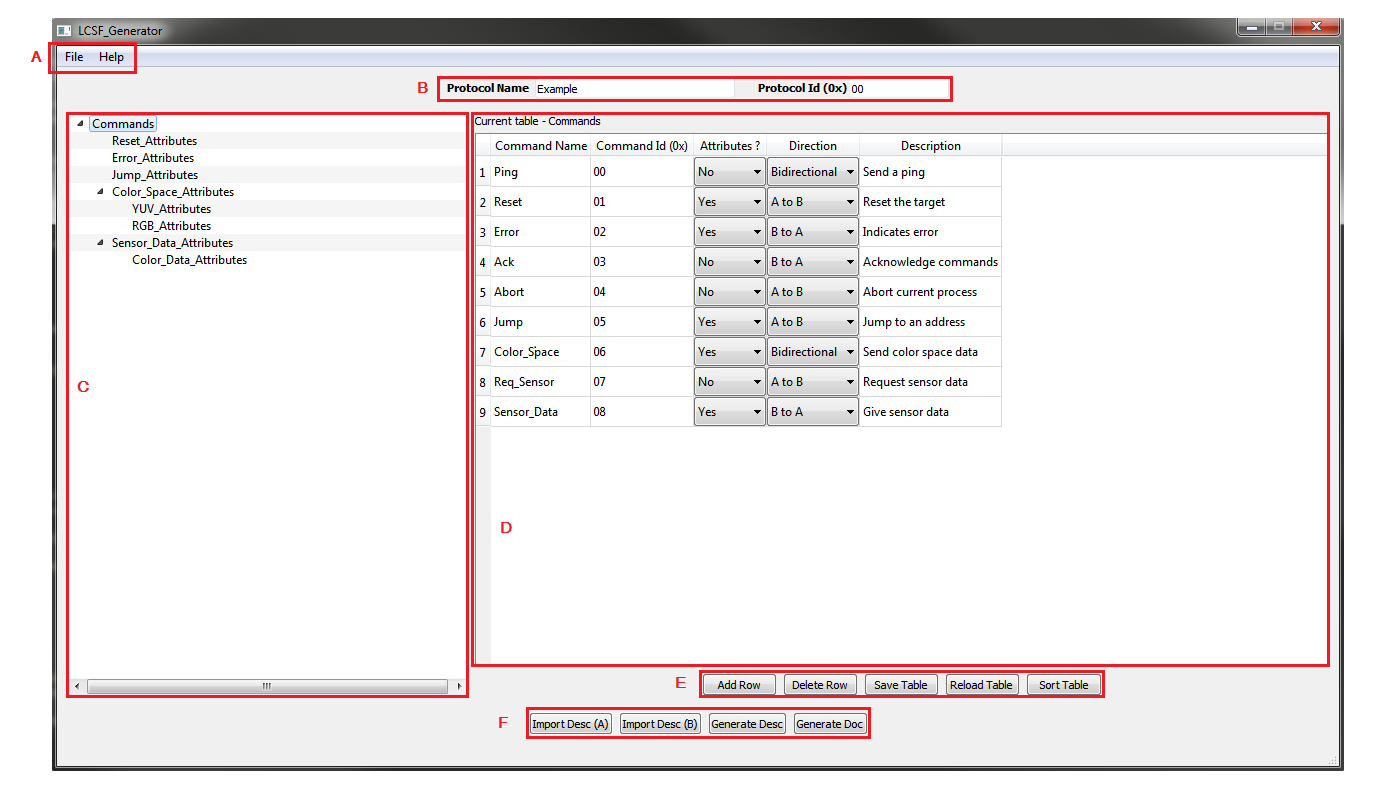
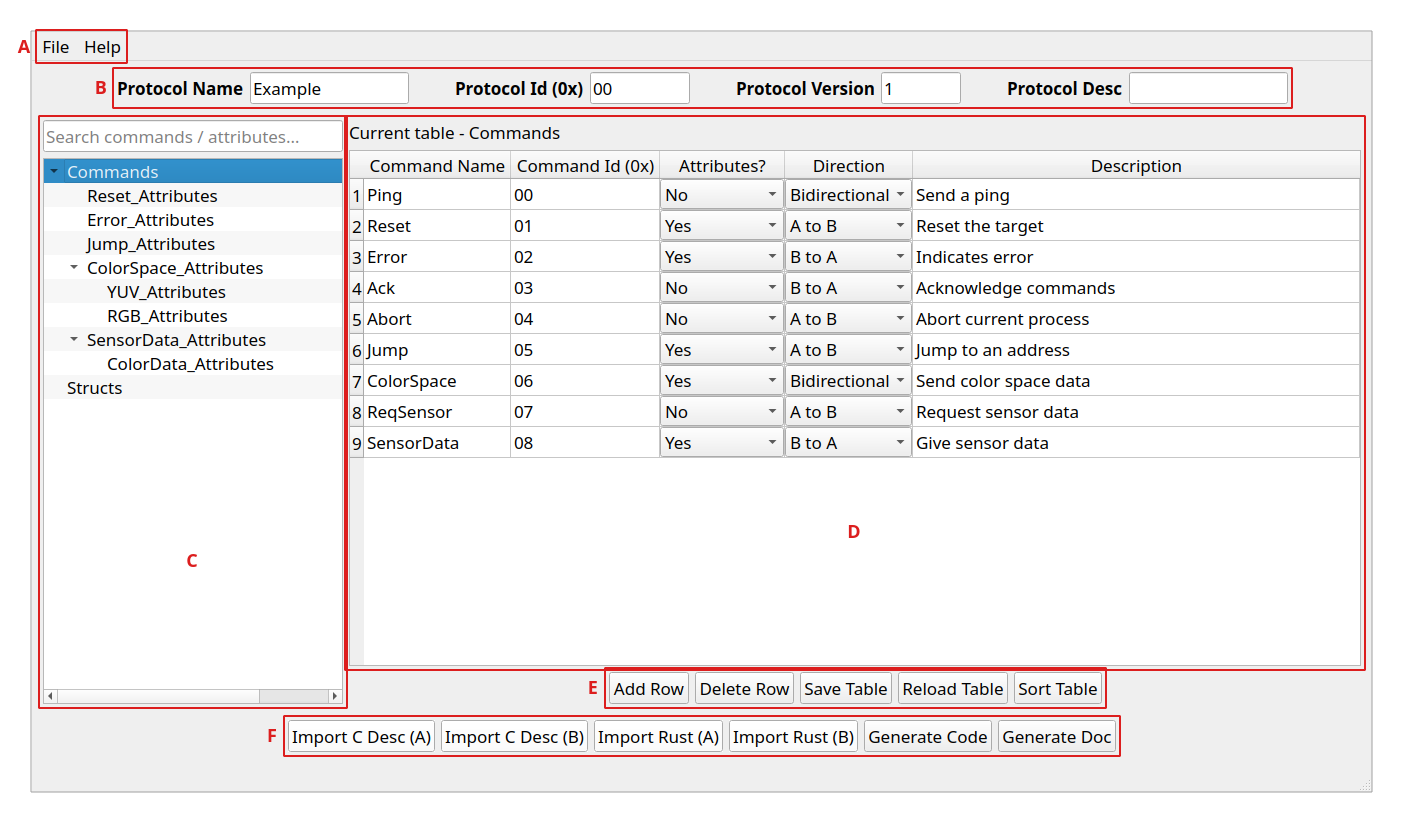
doc: update manual and screenshots to the current GUI

Changed region(s): [[0.0, 0.0, 0.9878, 1.0], [0.7717, 0.1832, 0.8643, 0.2137]]

diff --git a/index.md b/index.md
@@ -3,8 +3,8 @@
 LCSF Generator is a C++/Qt graphical tool that will allow you to:
 1. Create and edit protocols based on [LCSF](https://jean-roland.github.io/LCSF_Doc/) easily.
 2. Generate corresponding code for the [LCSF C Stack](https://github.com/jean-roland/LCSF_C_Stack) and [LCSF Stack Rust](https://github.com/jean-roland/LCSF_Stack_Rust).
-3. Import previous protocol source files to deploy modificatons without hassle (only C files supported).
-4. Generate protocole documentation on wiki and markdown format.
+3. Import previous protocol source files (C or Rust) to deploy modifications without hassle.
+4. Generate protocol documentation in wiki, DokuWiki and markdown format.
 
 ## Interface Breakdown
 
@@ -22,9 +22,11 @@ The file menu structure is:
 
 ![file menu](./img/menu_file.png)
 
-* New Protocol: Clear the interface to easily start a new protocol.
-* Load protocol: Open a file dialog to load a saved protocol.
-* Save protocol: Open a file dialog to save the current protocol (json format).
+* New protocol (Ctrl+N): Clear the interface to easily start a new protocol.
+* Load protocol (Ctrl+O): Open a file dialog to load a saved protocol.
+* Open Recent: Reload one of the last 8 protocols loaded or saved.
+* Save protocol (Ctrl+S): Open a file dialog to save the current protocol (json format).
+* Quit (Ctrl+Q): Leave the application, it asks whether to save the protocol first.
 
 #### Help Menu
 
@@ -40,6 +42,8 @@ The help menu structure is:
 This is where you fill the protocol parameters:
 * Protocol Name: The protocol name that will be used in files, code and documentation (Up to 64 alphanumerical characters and underscore allowed).
 * Protocol Id: The id that will be used in the LCSF stacks to identify the protocol (Up to 4 hexadecimal characters allowed).
+* Protocol Version: The protocol version number written in the generated code (0 to 65535).
+* Protocol Desc: The protocol description that will be used in documentation.
 
 ### C - Table Tree
 
@@ -48,21 +52,23 @@ This component will show hierarchically the different tables that make the proto
 Clicking on a table will display the table content on the table view (section D).
 It will also silently save any modifications on the previous table.
 
-The root table is always the Commands table and will contain the protocol commands.
-Each root table child will be a command containing attributes.
-Each command table child will be an attribute containing sub-attributes and so on and so forth.
+The search bar on top (Ctrl+F) filters the tree by name: a table stays visible when its name, a parent's or a child's name contains the search text.
+
+The tree has two root tables:
+* Commands: contains the protocol commands. Each of its children will be a command containing attributes, and each command table child will be an attribute containing sub-attributes and so on and so forth.
+* Structs: contains the protocol struct types. Each of its children (`<struct>_Fields`) contains the fields of a struct.
 
 ### D - Table View
 
 The table view will display the content of the currently selected table on the table tree (section C).
 The label on top indicates which table is currently displayed.
 
-If the root table Commands is selected, it will display the protocol command table, otherwise it will display an attribute table.
+The Commands table displays the protocol command table, the Structs table the struct table, a `<struct>_Fields` table a field table, and any other table an attribute table.
 
-Each table is composed of 5 columns, which depend on the table type. Each row represents an entry in the table.
-Each cell of the table can be modified directly, only the first two columns (name, id) are mandatory.
+Each row represents an entry in the table.
+Each cell of the table can be modified directly, only the name and id columns are mandatory. Greyed cells are computed and read-only.
 
-If the table detects two identitcal ids it will disable the save table button and highlight the cells in red.
+If the table detects two identical names or ids it will highlight the duplicate cell in yellow.
 
 #### Command Table
 
@@ -79,25 +85,48 @@ The attribute table is composed of 5 columns:
 * Attribute Name: The name of the attribute that will be used in code and documentation (Up to 64 alphanumerical characters and underscore allowed).
 * Attribute Id: The id that will be used in the LCSF stacks to identify the attribute (Up to 4 hexadecimal characters allowed, will be interpreted as 0 otherwise).
 * Optional ?: Is the attribute optional or not (Yes or no choice).
-* Data Type: Set the attribute data type (See the LCSF Documentation for more details).
+* Data Type: Set the attribute data type (See the LCSF Documentation for more details). Integers and floats are picked by width from the uint, int and float submenus, struct types from the struct (single struct) and struct[] (array of structs) submenus.
 * Description: The attribute description that will be used in documentation.
+
+#### Struct Table
+
+Struct types give a byte array attribute an explicit layout, they are defined once and can be used by any attribute. The wire format is detailed in the [README](https://github.com/jean-roland/LCSF_Generator#struct-types).
+
+The struct table is composed of 5 columns:
+* Struct Name: The name of the struct that will be used in code and documentation (Up to 64 alphanumerical characters and underscore allowed).
+* Extensible?: Can fields be appended to the struct later on without breaking older peers (Yes or no choice). Required for structs with variable-length fields.
+* Size (bytes): The struct size on the wire, a maximum when it has variable-length fields (read-only).
+* Used By: The attributes using the struct (read-only).
+* Description: The struct description that will be used in documentation.
+
+#### Field Table
+
+The field table is composed of 4 columns:
+* Field Name: The name of the field that will be used in code and documentation (Up to 64 alphanumerical characters and underscore allowed).
+* Data Type: Set the field data type: uint and int from 8 to 64 bits, float 32 or 64 bits, or the variable-length varuint and varint from 16 to 64 bits.
+* Offset: The field offset in bytes in the struct, "-" after a variable-length field (read-only).
+* Description: The field description that will be used in documentation.
+
+Fields are laid out on the wire in table order.
 
 ### E - Table Button
 
 Table buttons have an effect on the table view (section D). It contains 5 buttons:
-* Add Row: Add a new empty row at the end of the current table.
-* Delete Row: Delete the currently selected row (the last one by default), modifications will be immediately saved. 
+* Add Row (Insert): Add a new empty row at the end of the current table.
+* Delete Row (Del): Delete the currently selected row (the last one by default), modifications will be immediately saved. A struct used by attributes can't be deleted.
 * Save Table: Save modifications of the current table, will only take into account valid rows (name and ids are valid).
-* Reload Table: Reload the current table and cancel unsaved modifications.
-* Sort Table: Sort the table by id ascending order, will also refresh the tree if needed.
+* Reload Table (F5): Reload the current table and cancel unsaved modifications.
+* Sort Table: Sort the table by id ascending order, will also refresh the tree if needed. Struct and field tables keep their order.
 
 ### F - Output Button
 
-Output buttons are related to code and documentation generation. It contains 4 buttons:
-* Import Desc (A): Import previous code of the protocol A point of view (see LCSF directions), it will change the A output directory to the imported code location. Will turn green after import.
-* Import Desc (B): Import previous code of the protocol B point of view (see LCSF directions), it will change the B output directory to the imported code location. Will turn green after import.
-* Generate Desc: Generate protocol code for the LCSF stacks, it will generate code for both A and B point of views.
-* Generate Doc: Generate protocol documentation, it will produce wiki and markdown format of the protocol command and attribute tables. 
+Output buttons are related to code and documentation generation. It contains 6 buttons:
+* Import C Desc (A): Import previous C code of the protocol A point of view (see LCSF directions), it will change the A C output directory to the imported code location. Will turn green after import.
+* Import C Desc (B): Import previous C code of the protocol B point of view (see LCSF directions), it will change the B C output directory to the imported code location. Will turn green after import.
+* Import Rust (A): Same as Import C Desc (A) for the Rust code.
+* Import Rust (B): Same as Import C Desc (B) for the Rust code.
+* Generate Code: Generate protocol code for the LCSF C and Rust stacks, it will generate code for both A and B point of views, in `COutput` and `RustOutput` unless code was imported.
+* Generate Doc: Generate protocol documentation in the `Export` directory, it will produce wiki, DokuWiki and markdown format of the protocol tables.
 
 ### Tooltip
 
@@ -107,12 +136,13 @@ Just hover your mouse over them for a couple of seconds to make them appear.
 ## How to use it
 
 1. (optional) Load protocol description.
-2. Set/Modify protocol name and protocol id.
-3. Add/Modify protocol commands in the root table.
-4. Add/Modify attributes and sub-attributes in the sub-tables.
-5. Save the description for future use.
-6. (optional) Import previous code if you already wrote specific code in the protocol main source file.
-7. Generate source code and documentation.
+2. Set/Modify protocol name, id, version and description.
+3. (optional) Add/Modify struct types in the Structs table and their fields in the field tables.
+4. Add/Modify protocol commands in the Commands table.
+5. Add/Modify attributes and sub-attributes in the sub-tables.
+6. Save the description for future use.
+7. (optional) Import previous code if you already wrote specific code in the protocol main source file.
+8. Generate source code and documentation.
 
 ## About Code Generation
 
@@ -121,10 +151,8 @@ It will generate code for both A and B points of view.
 
 It will fully generate the descriptor and bridge files but only build a template for the main files as it cannot produce application code.
 
-If you already wrote application code for the protocol, you can import it through the _Import Desc_ buttons, the code will be included in the next generation. It will only accept files named "protocolName_Main.c".
+If you already wrote application code for the protocol, you can import it through the _Import_ buttons, the code will be included in the next generation. It will only accept files named "protocolName_Main_a.c" or "protocolName_Main_b.c" for C, "protocol_protocolname_a.rs" or "protocol_protocolname_b.rs" for Rust.
 
 ## About Code Importation
 
 The code importation feature relies heavily on its internal model of a protocol main source file to extract useful information. This means that heavy modification of this file formatting (sections names mainly) might yield unpredicted behaviour when importing and generating code with it.
-
-This is why the feature is currently only available for C code and not for Rust code.
